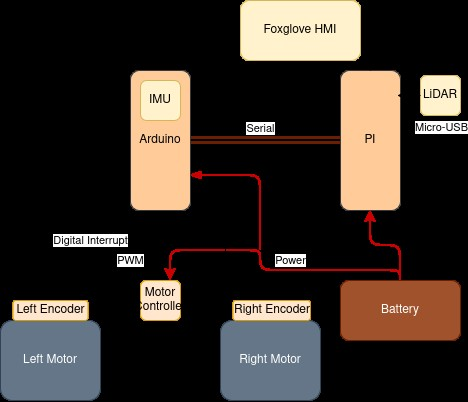
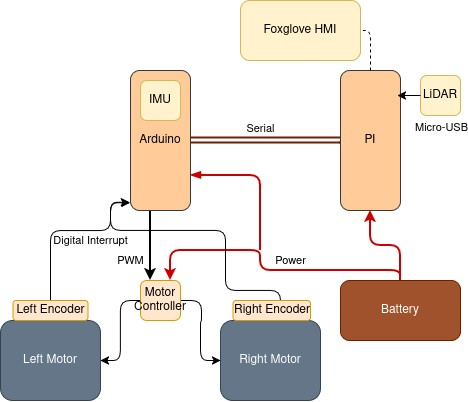
Fix black background on SystemOverview/CodeDiagram: composite transparent PNGs onto white before JPG conversion

diff --git a/projects/slam-robot.html b/projects/slam-robot.html
@@ -65,39 +65,19 @@
     <h3>Chassis &amp; Locomotion</h3>
     <p>
       Built on a Lynxmotion A4WD1 kit: four fixed wheels driven by 12V DC planetary gear motors in
-      a skid-steer configuration, steered by driving the left and right sides at different
-      velocities -- feeding directly into the controller's differential-drive kinematics.
+      a skid-steer configuration.
     </p>
-
-    <h3>Hardware Exploration: ESP32 Migration</h3>
-    <p>
-      In parallel with the Arduino Uno WiFi Rev2 build (the version actually committed as the
-      project's <code>platformio.ini</code> target), the team wired up and tested an ESP32-S3 dev
-      board with an external Adafruit LSM6DSOX + LIS3MDL 9DOF IMU, aiming for micro-ROS support,
-      more GPIO, and a faster clock than the Uno's 16&nbsp;MHz. A full pinout/wiring diagram was
-      drawn up for the swap (SHARP IR sensors, quadrature encoders, dual motor driver, IMU over
-      I2C).
-    </p>
-    <img class="photo" src="../images/slam-robot/06.jpg" alt="ESP32-S3 dev board wired to an external 9DOF IMU breakout, on the bench">
 
     <h3>Motor Controller</h3>
     <p>
       The designed motor controller (below) takes target linear/angular velocity and turns it into
       left/right PWM through an acceleration limiter, a PID correction on yaw rate (from the IMU),
       differential-drive kinematics, and a per-wheel hybrid controller blending a feedforward
-      lookup table with PID correction from encoder feedback -- switching to macro-pulsing (short
+      lookup table with PID correction from encoder feedback - switching to macro-pulsing (short
       pulses at minimum-viable PWM) below the DC motors' stall voltage, where continuous PWM can't
       hold a speed at all.
     </p>
     <img class="photo" src="../images/slam-robot/03.jpg" alt="Team-drawn motor controller flow chart: feedforward + PID + macro-pulsing per wheel">
-    <p>
-      <em>What's actually in the repo right now is the baseline of that design: a working PID loop
-      on both linear velocity (averaged from the left/right encoders) and angular velocity (IMU
-      yaw), with integral windup guards, feeding a differential-drive mix into the H-bridge. The
-      feedforward lookup table and macro-pulsing stage in the diagram above are the documented next
-      step -- I don't have confirmation of whether they made it into the final build before demo
-      day. Flagging this rather than claiming more than I can verify from the code.</em>
-    </p>
 
     <h3>Perception, SLAM &amp; Navigation</h3>
     <p>
